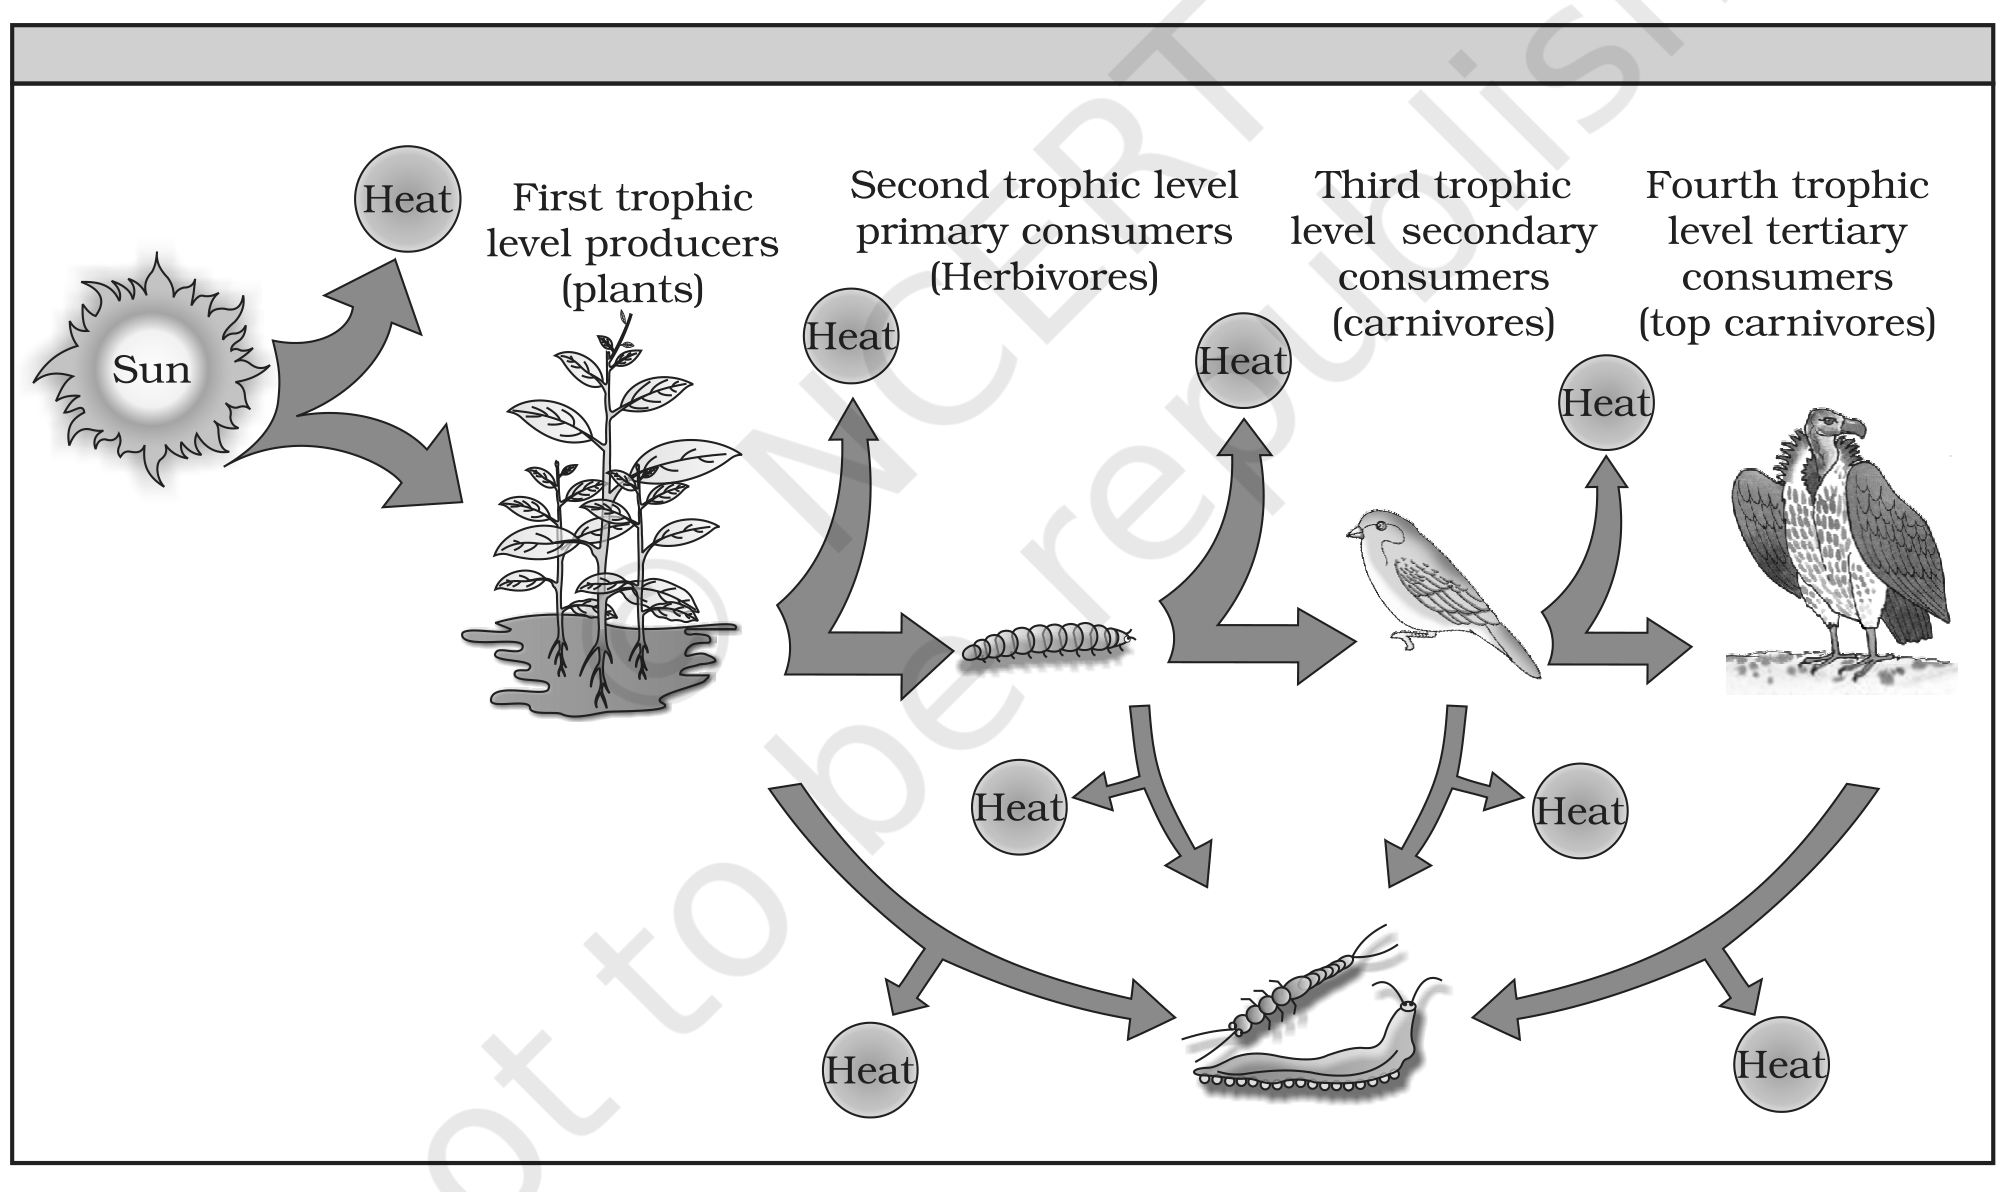
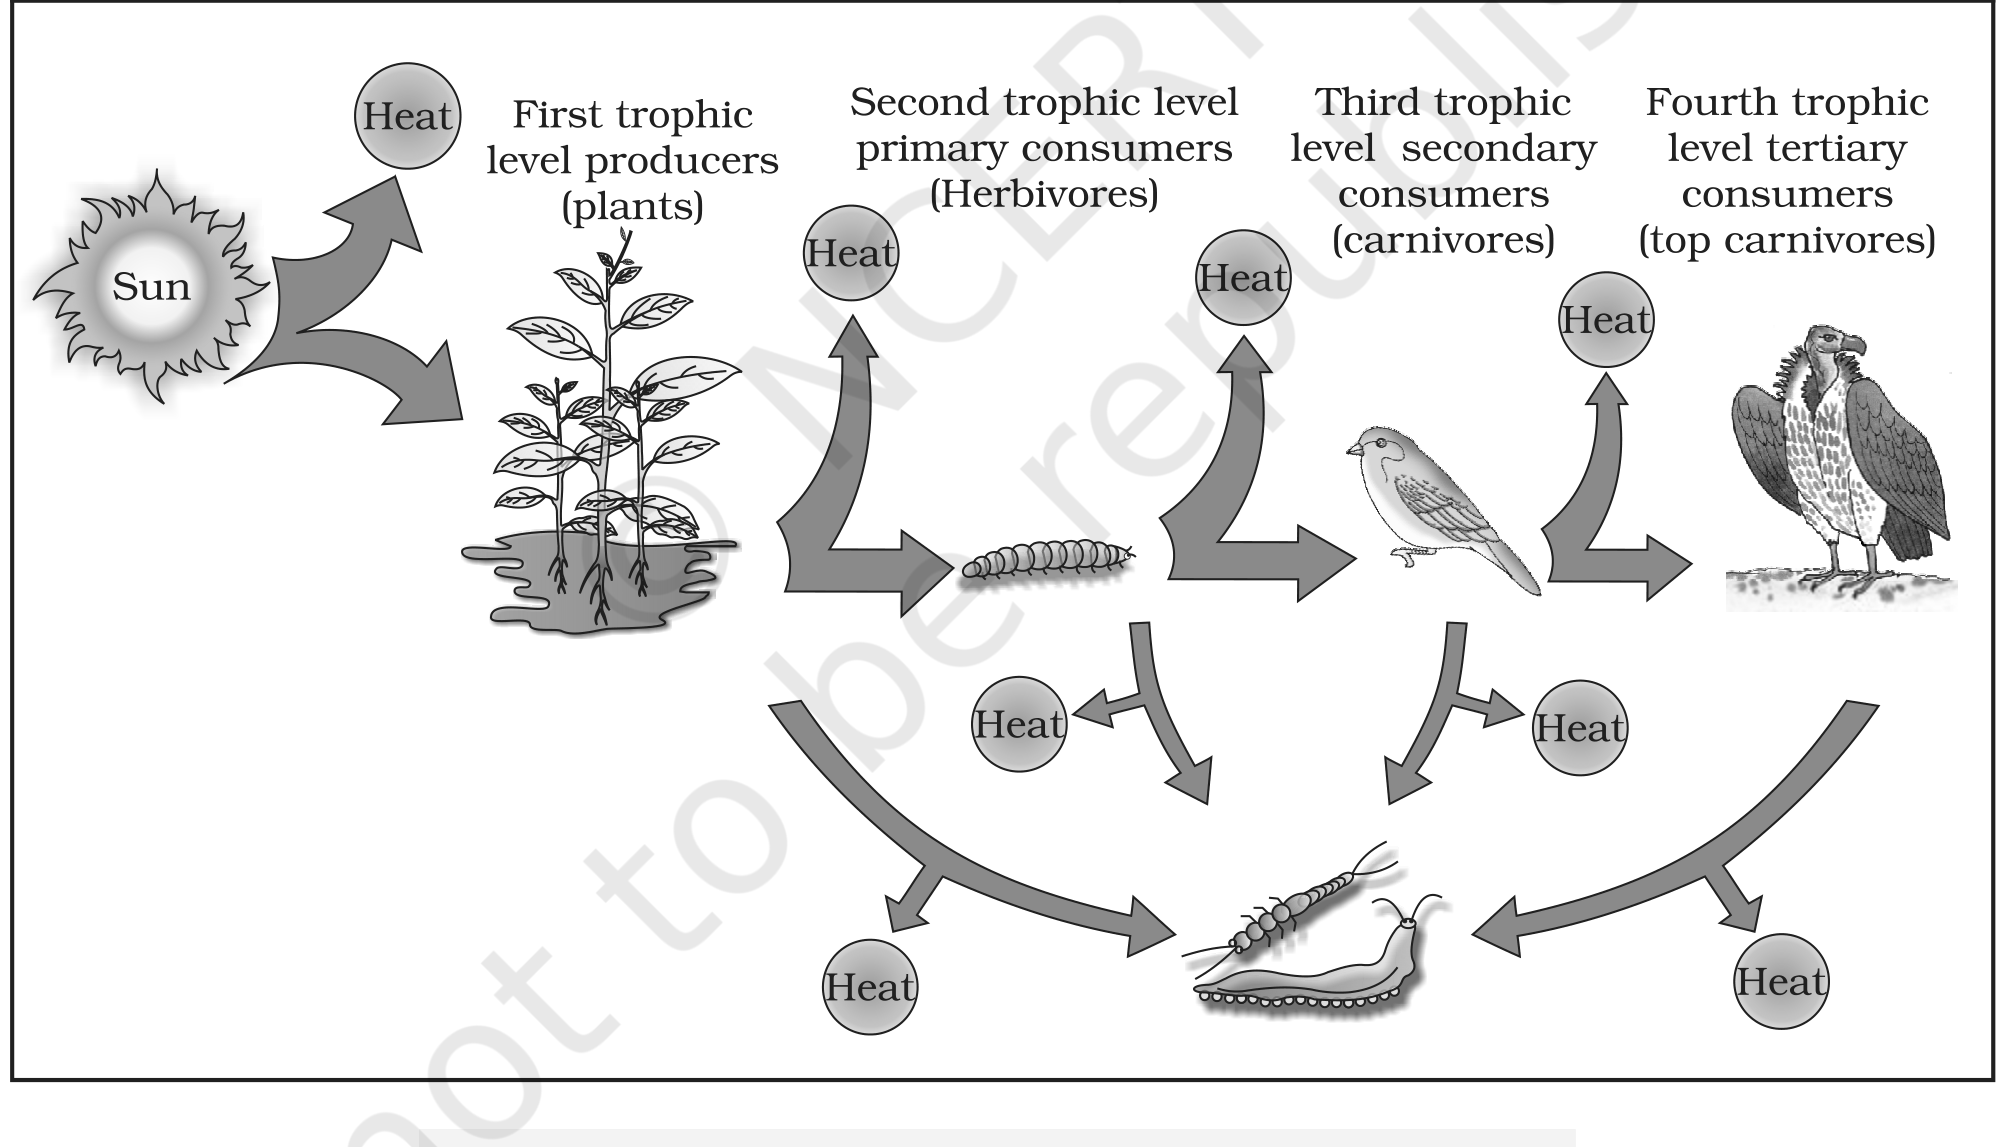
Fix figure clipping and improve page layout accuracy (#65)
* refactor: correct figure clipping and add verification checks for page boundaries

* chore: add new verification images for chapter 12

---------

Changed region(s): [[0.0, 0.0, 1.0, 0.9765], [0.1855, 0.9765, 0.2783, 1.0]]

diff --git a/notes/class 12/Ch12_Ecosystem/extract_figures.py b/notes/class 12/Ch12_Ecosystem/extract_figures.py
@@ -32,14 +32,30 @@ os.makedirs(ASSETS, exist_ok=True)
 DPI = 300
 
 # (asset name, 0-based page index, clip rect in PDF points, human label)
+#
+# Clip bounds were re-measured against pymupdf page geometry (568.8 x 777.6 pt),
+# using each figure's caption text block as the hard lower anchor:
+#   12.1 caption y=478.8 | 12.2 y=693.6 | 12.3 y=608.4
+#   12.4a y=352.1 | 12.4b y=562.8 | 12.4c y=679.0 | 12.4d y=261.6
+#
+# Three clips were corrected after visual inspection of the extracted assets:
+#   * 12.1 and 12.3 previously started ABOVE the figure box's decorative
+#     coloured header strip (12.1: y 84.8-97.7; 12.3: y 318.0-332.0), baking a
+#     dead grey band into the asset. The template's own figure() border is the
+#     only frame the output should carry (SS4.4), so both now start below it.
+#   * 12.3 previously ended at y=598, 8 pt short of the artwork's true bottom
+#     edge at y=606 - a genuine bottom crop.
+#   * 12.4d previously used x1=600, which is PAST the 568.8 pt page edge, so the
+#     clip was clamped to the page and swallowed NCERT's decorative corner logo
+#     (x>440, y<75) as a stray smudge. Artwork really ends at x=379.
 FIGURES = [
-    ("fig_12_1.png",  3, (52, 78, 537, 474), "Figure 12.1 decomposition cycle"),
+    ("fig_12_1.png",  3, (57, 98, 532, 472), "Figure 12.1 decomposition cycle"),
     ("fig_12_2.png",  5, (100, 386, 535, 682), "Figure 12.2 trophic levels"),
-    ("fig_12_3.png",  6, (33, 312, 520, 598), "Figure 12.3 energy flow"),
+    ("fig_12_3.png",  6, (36, 332, 517, 607), "Figure 12.3 energy flow"),
     ("fig_12_4a.png", 7, (92, 172, 508, 348), "Figure 12.4 (a) pyramid of numbers"),
     ("fig_12_4b.png", 7, (92, 382, 508, 558), "Figure 12.4 (b) pyramid of biomass"),
     ("fig_12_4c.png", 7, (195, 592, 425, 662), "Figure 12.4 (c) inverted pyramid of biomass"),
-    ("fig_12_4d.png", 8, (100, 72, 600, 250), "Figure 12.4 (d) pyramid of energy"),
+    ("fig_12_4d.png", 8, (100, 80, 395, 253), "Figure 12.4 (d) pyramid of energy"),
 ]
 
 
@@ -71,7 +87,16 @@ def main():
     doc = pymupdf.open(SRC)
     for name, page_index, clip, label in FIGURES:
         page = doc[page_index]
-        pix = page.get_pixmap(dpi=DPI, clip=pymupdf.Rect(*clip))
+
+        # A clip that runs past the page edge is silently CLAMPED by pymupdf, so
+        # it quietly grabs whatever furniture sits in the margin (this is exactly
+        # how 12.4d picked up the decorative corner logo). Fail loudly instead.
+        rect = pymupdf.Rect(*clip)
+        assert rect in page.rect, (
+            "%s: clip %s escapes page rect %s - it would be clamped and pull in "
+            "page furniture" % (name, rect, page.rect))
+
+        pix = page.get_pixmap(dpi=DPI, clip=rect)
         raw_path = os.path.join(ASSETS, "_raw_" + name)
         pix.save(raw_path)
 
